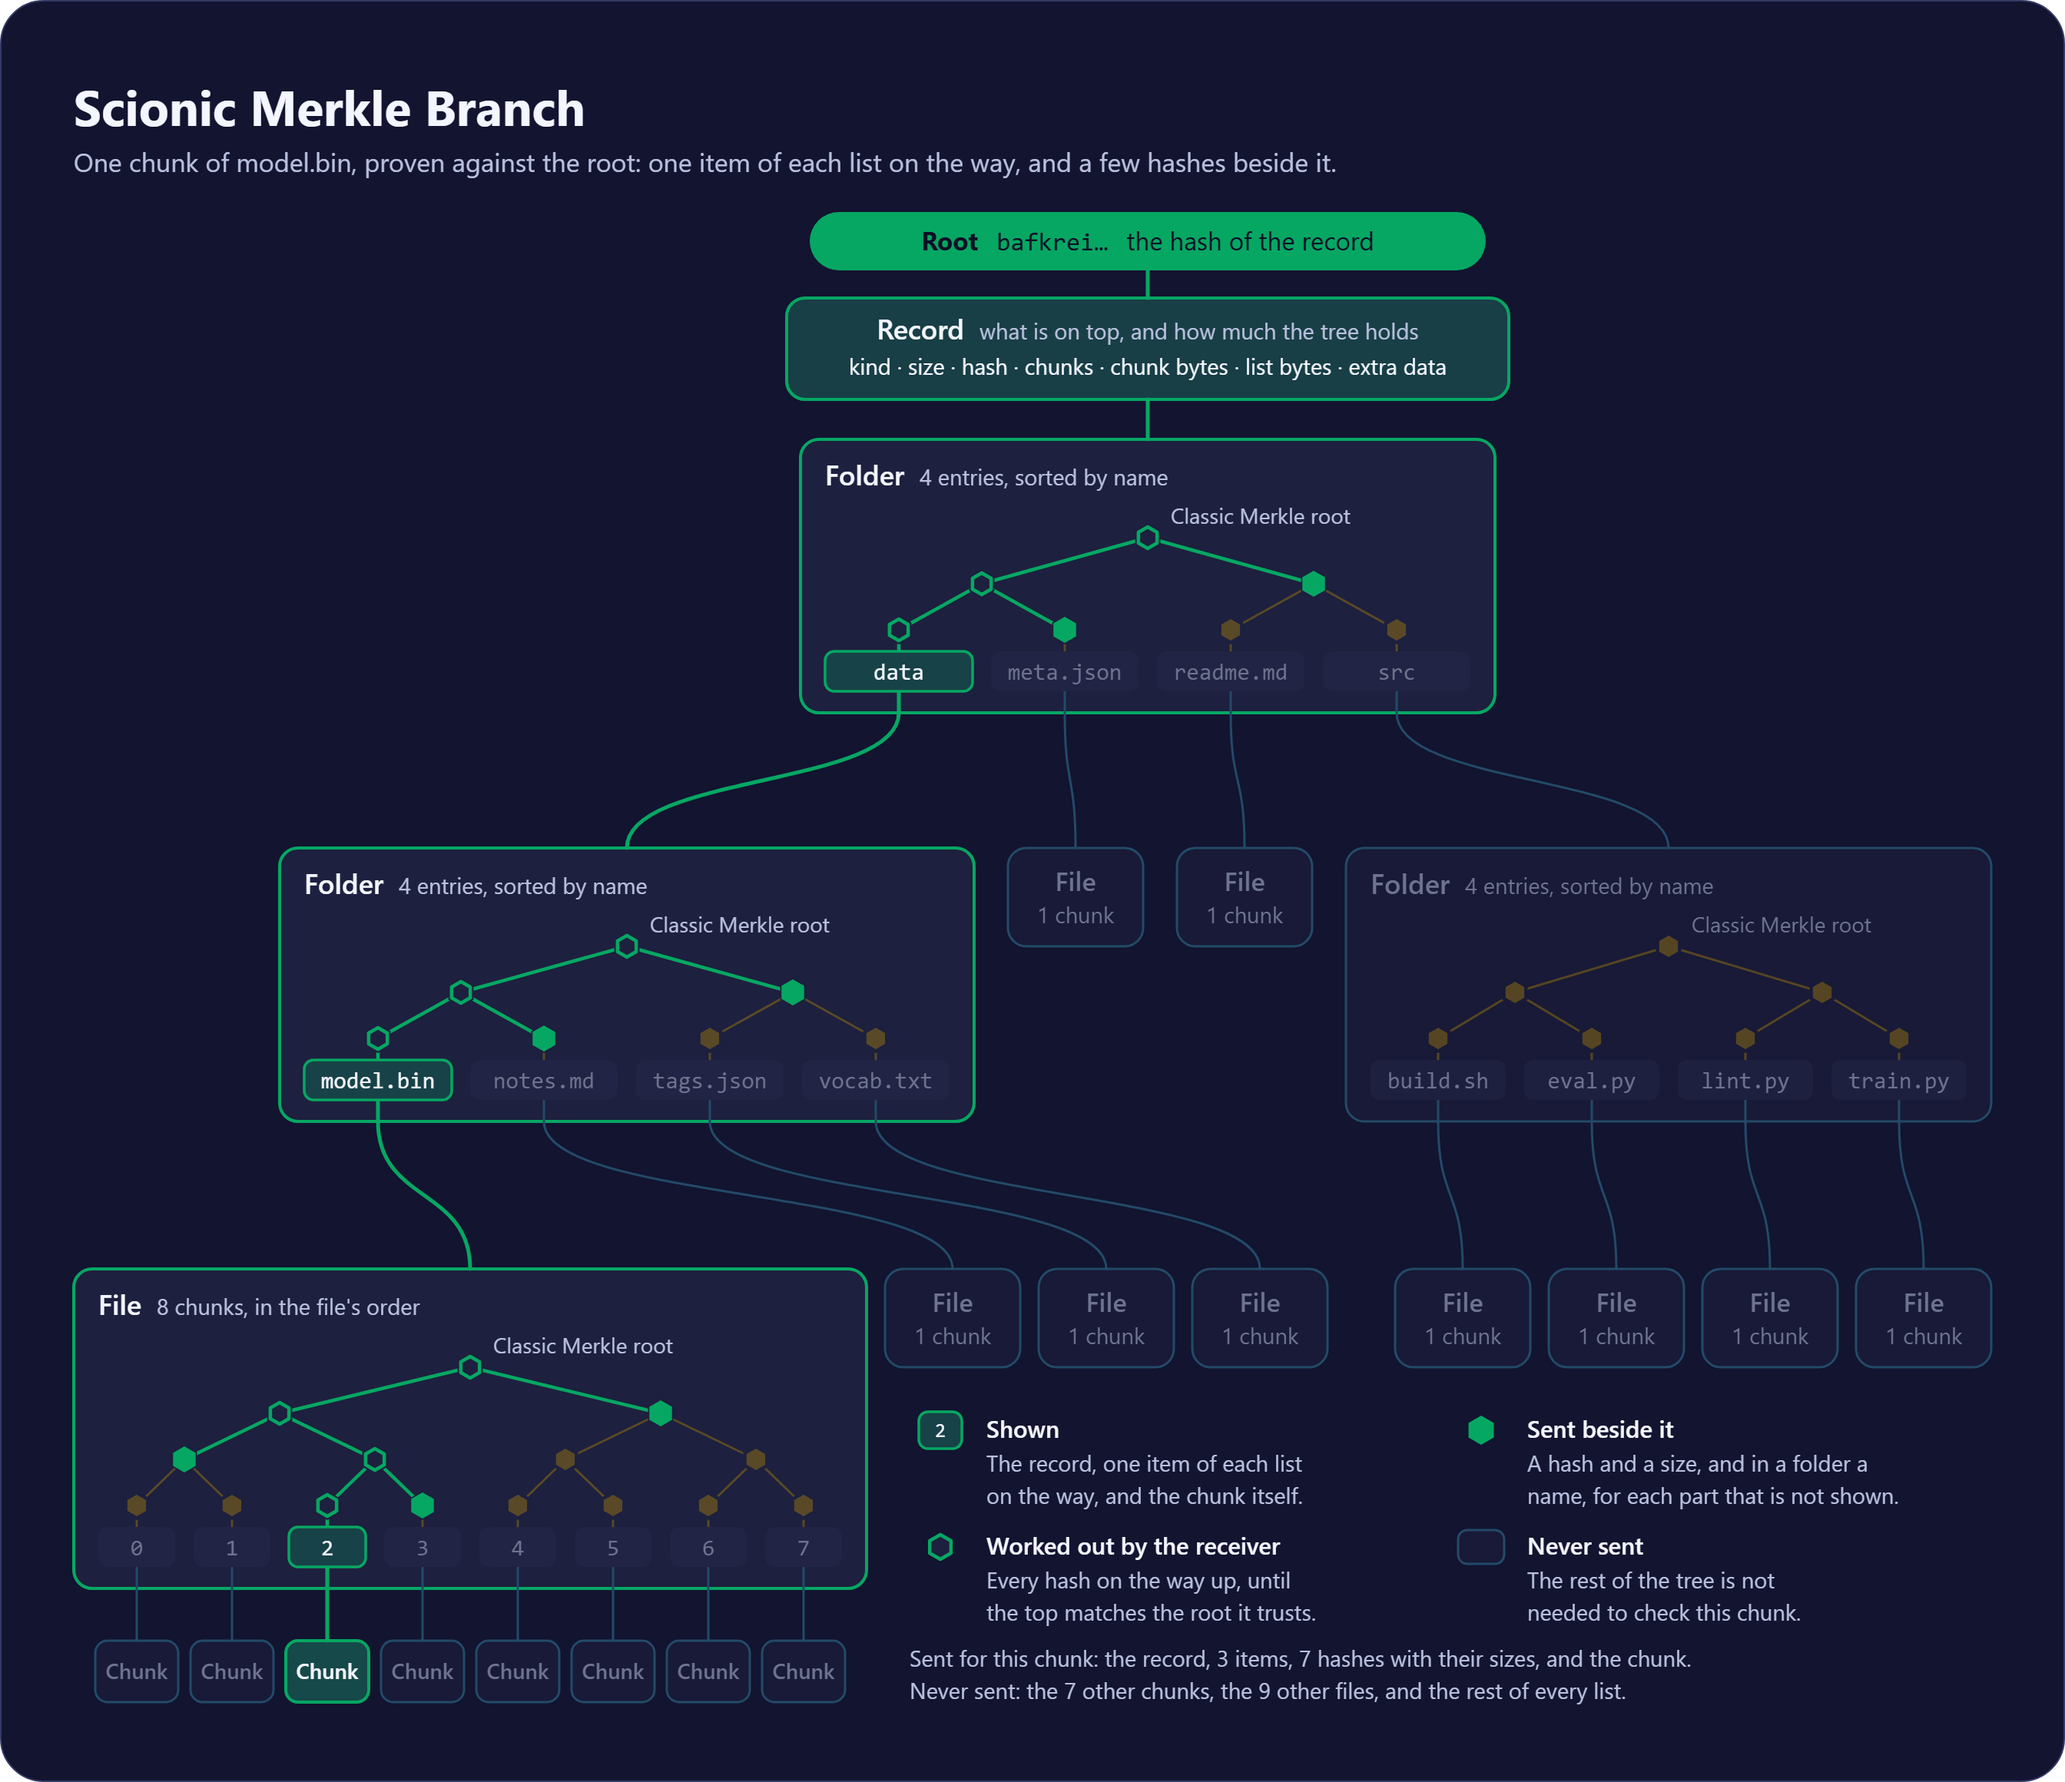
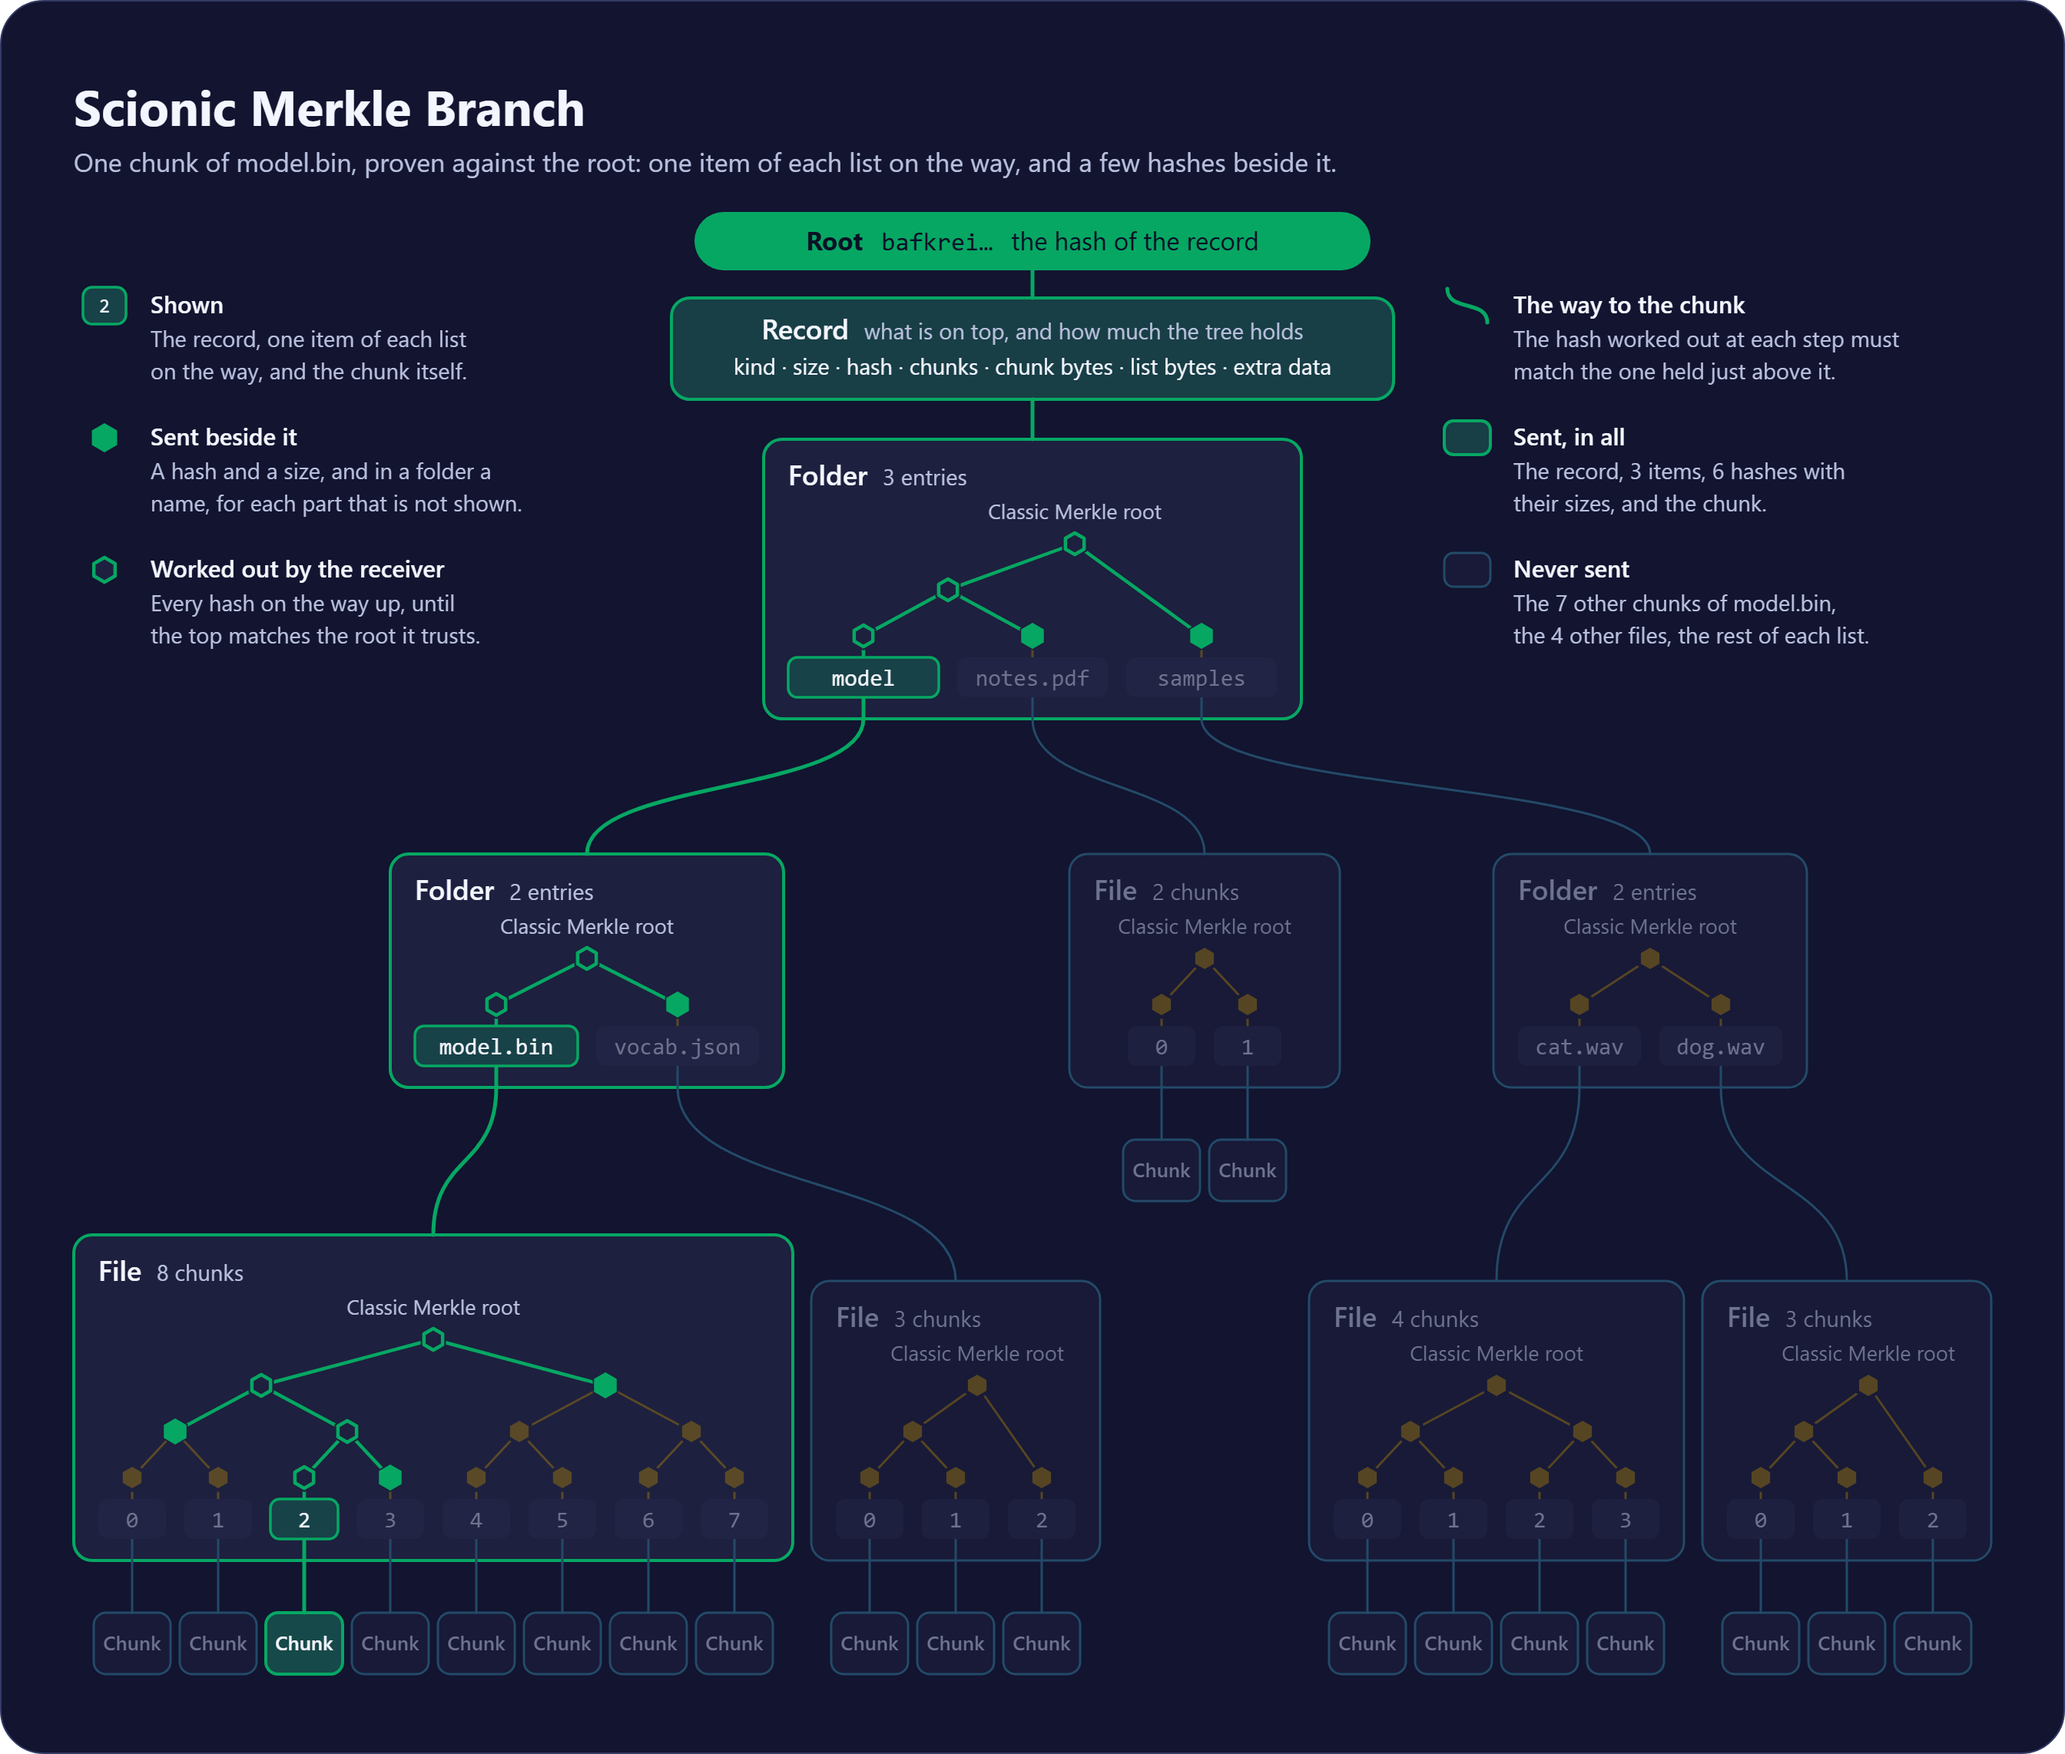
docs: every file in the tree pictures has its own tree and chunks
The tree and branch pictures drew nine of their ten files as closed boxes
that said "File, 1 chunk". That hid what a file is: a list of chunks with
a Classic Merkle tree over it, as a folder is a list of entries with one.

- Every file is now drawn the way a folder is: a box with the Classic
  Merkle tree over its list, the numbers of its chunks under the tree's
  leaves, and its chunks under those.
- The example tree is smaller, so that this fits: the folder on top holds
  a folder, a file and a folder, and each of those folders holds two
  files. The five files have 8, 3, 2, 4 and 3 chunks.
- The program refuses a file with fewer than two chunks, a row of files
  that does not fit the picture, and a chunk to prove that the file does
  not have.
- The key stands on both sides of the root, and says what a link is. A
  folder's entry is given in the order the format has it.

diff --git a/docs/pictures/README.md b/docs/pictures/README.md
@@ -29,8 +29,10 @@ python docs/pictures/shrink.py <folder>/scionic-merkle-branch.png docs/pictures/
 Everything a picture says is at the top of `pictures.mjs` or in the function that draws it:
 
 - **`SYNC`** is the name of the protocol that asks for a file's chunks by their numbers.
-- **`TOP`, `LEFT` and `RIGHT`** are the names in the example tree. They must be in the order of their bytes, as a folder's entries are, and the program refuses them otherwise.
-- **`PROVEN`** is the chunk that the branch picture proves. What is shown, what is sent beside it and what the receiver works out follow from it by the rule in [`spec/FORMAT.md`](../../spec/FORMAT.md), under "Showing a part".
+- **`TOP`, `LEFT` and `RIGHT`** are the names in the example tree: the folder on top holds a folder, a file and a folder, and each of those two folders holds two files. The names must be in the order of their bytes, as a folder's entries are, and the program refuses them otherwise.
+- **`CHUNKS`** is how many chunks each file has. Every file is drawn the way a folder is: a box with the Classic Merkle tree over its list, its chunks' numbers under the tree's leaves, and its chunks under those. A file in these pictures has two chunks or more, so that its tree can be seen, and the program refuses a file with fewer. The format itself has smaller files: one of 512 KiB or less is a single chunk, and its tree is that one leaf.
+- **The bottom row fills the picture from edge to edge.** If the files are given more chunks than fit, the program refuses them, and says how much room is left and how much is needed.
+- **`PROVEN`** is the chunk that the branch picture proves, in the first file of the first folder. What is shown, what is sent beside it and what the receiver works out follow from it by the rule in [`spec/FORMAT.md`](../../spec/FORMAT.md), under "Showing a part".
 - **The rows of the table** are in `table()`.
 
 ## The Colours
